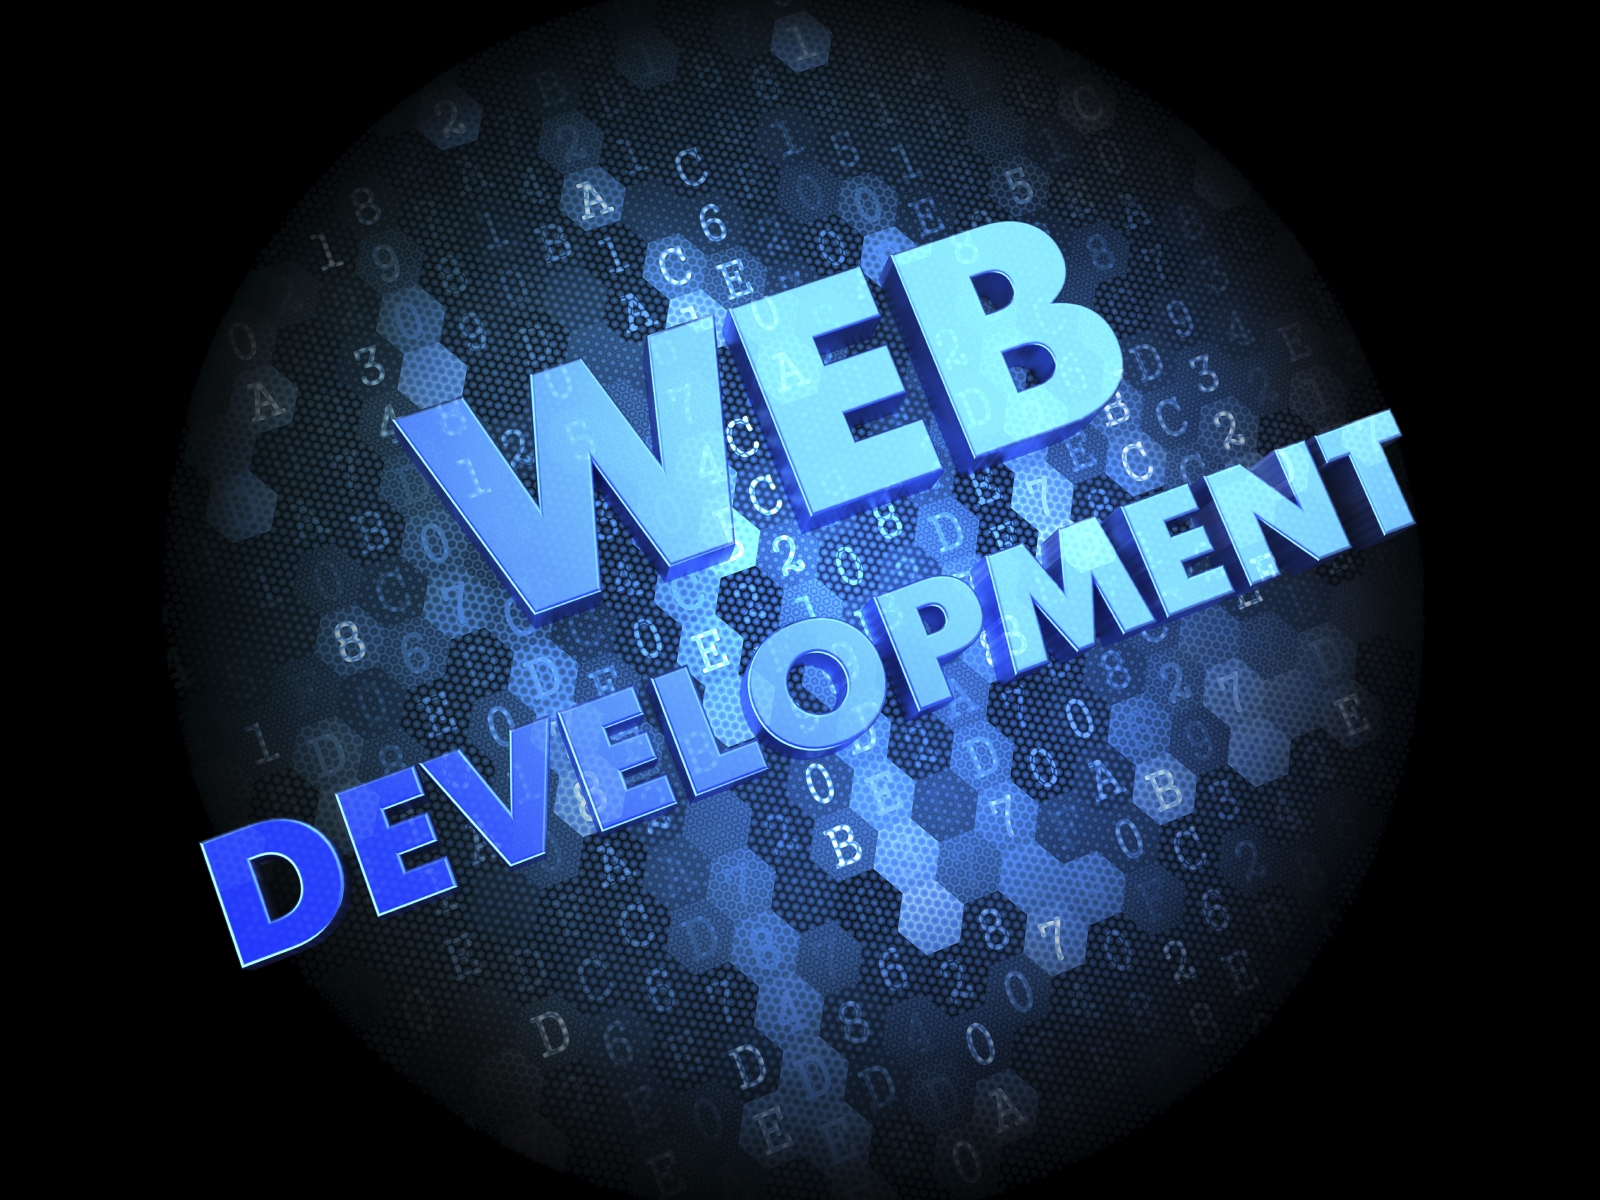
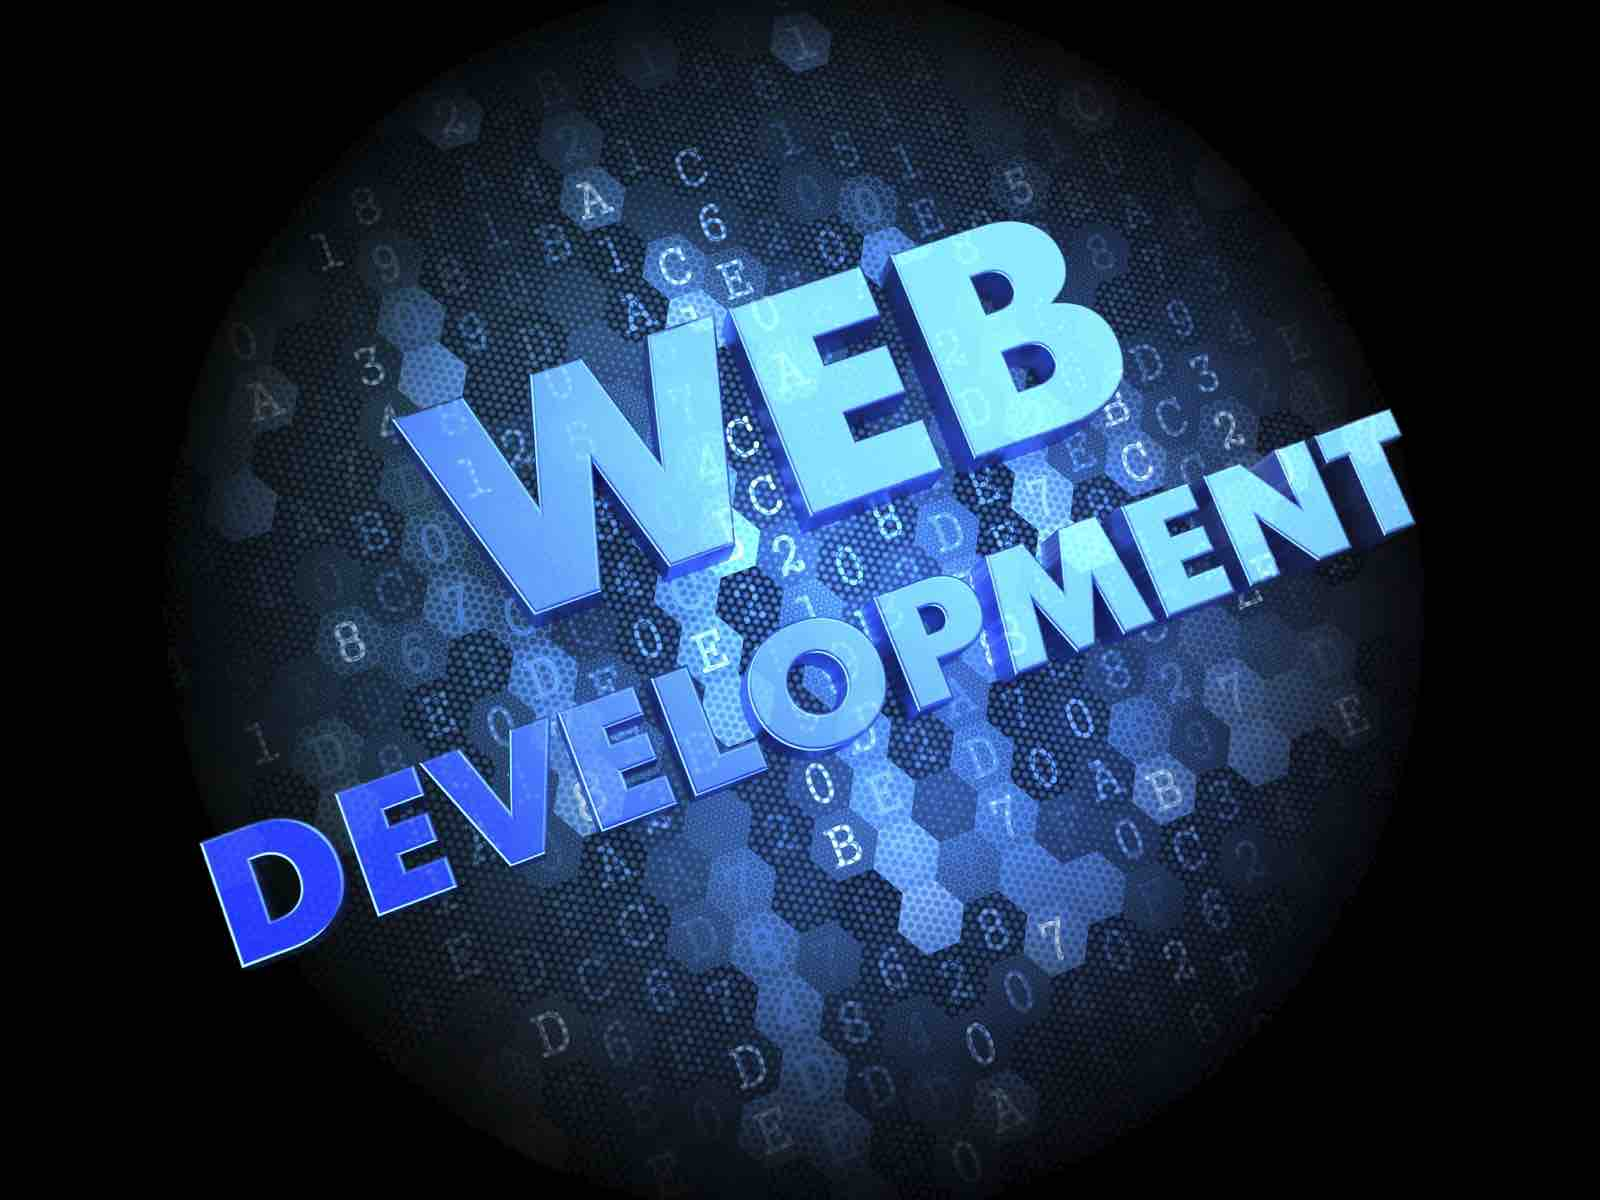
Fixed slider and made images smaller for faster load times

diff --git a/index.html b/index.html
@@ -274,9 +274,9 @@ ga('send', 'pageview');
 
     <!-- Slideshow 3 -->
     <ul class="rslides" id="slider3">
-      <li><img src="images/crypdesigns.png" alt="crypdesigns" class="noMaxWidthImg"></li>
-      <li><img src="images/newscloud.png" alt="newscloud" class="noMaxWidthImg"></li>
-      <li><img src="images/picturesque.png" alt="picturesque" class="noMaxWidthImg"></li>
+      <li><img src="images/crypdesigns.jpg" alt="crypdesigns" class="noMaxWidthImg"></li>
+      <li><img src="images/newscloud.jpg" alt="newscloud" class="noMaxWidthImg"></li>
+      <li><img src="images/picturesque.jpg" alt="picturesque" class="noMaxWidthImg"></li>
     </ul>
 
     <!-- Slideshow 3 Pager -->

diff --git a/styles/main.css b/styles/main.css
@@ -7658,17 +7658,13 @@ body.dark .inverse .btn-arrow.invert:after {
   background-image: url('../images/demo/post/comments4.jpg');
 }
 #services-grid01 {
-<<<<<<< HEAD
-  background-image: url('../images/webDevelopment.jpg');
-=======
-  background-image: url('../images/webDevPic.jpeg');
->>>>>>> 34feac12986d19449c4da9c0fed1e9f661a587a8
+  background-image: url('../images/webDevPic.jpg');
 }
 #services-grid02 {
   background-image: url('../images/seoPic.jpg');
 }
 #services-grid03 {
-  background-image: url('../images/ecommerce.jpg');
+  background-image: url('../images/ecomm.jpg');
 }
 #about-minimal-intro-slider01 {
   background-image: url('../images/main-about-image.jpg');
